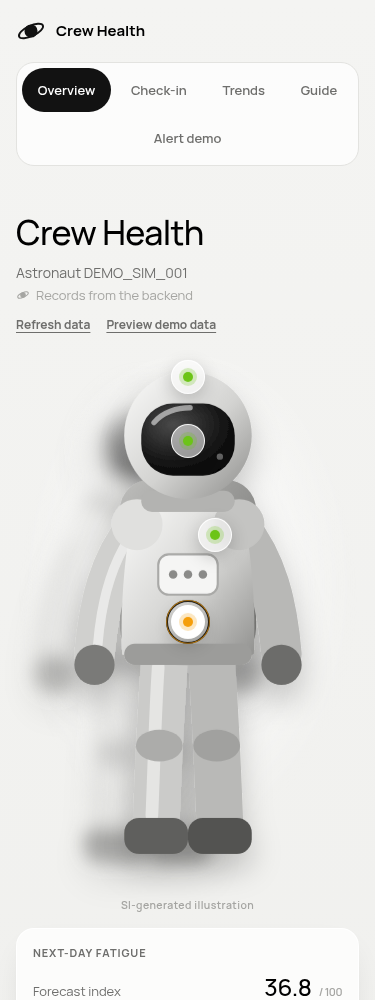
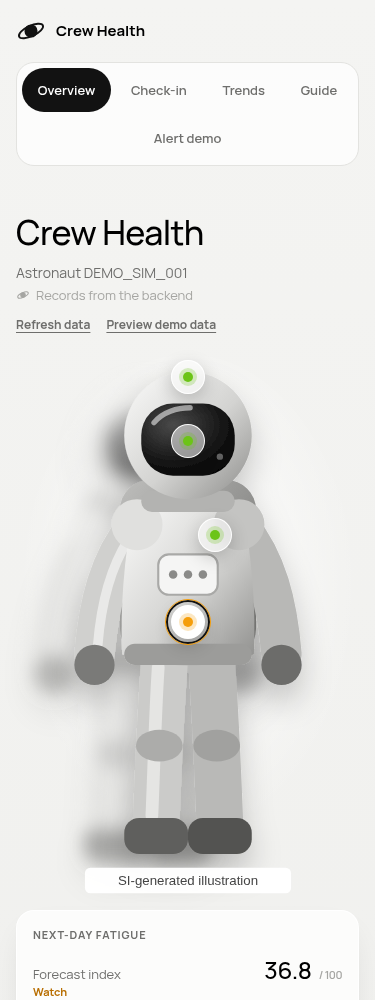
Embed visible SI labels in artwork and preserve them in image exports

diff --git a/frontend/src/app/components/astronaut-figure.ts b/frontend/src/app/components/astronaut-figure.ts
@@ -5,7 +5,7 @@ import { Component } from '@angular/core';
   selector: 'app-astronaut-figure',
   host: { style: 'display: contents' },
   template: `
-    <svg class="astronaut" viewBox="0 0 320 520" role="img" aria-label="Astronaut body map">
+    <svg class="astronaut" viewBox="0 0 320 520" role="img" aria-label="Astronaut body map, SI-generated illustration">
       <defs>
         <linearGradient id="suit" x1="0" x2="1" y1="0" y2="1">
           <stop offset="0" stop-color="#fbfbfa" />
@@ -71,6 +71,10 @@ import { Component } from '@angular/core';
         <rect x="116" y="56" width="88" height="68" rx="30" fill="url(#visor)" />
         <path d="M128 74 C136 64 150 60 162 60" stroke="#fff" stroke-opacity="0.55" stroke-width="5" stroke-linecap="round" fill="none" />
         <circle cx="190" cy="106" r="3" fill="#fff" opacity="0.35" />
+      </g>
+      <g data-si-watermark="true" pointer-events="none">
+        <rect x="63" y="493" width="194" height="24" rx="5" fill="#ffffff" fill-opacity="0.96" />
+        <text x="160" y="509" text-anchor="middle" fill="#444444" font-family="Arial, sans-serif" font-size="12.5">SI-generated illustration</text>
       </g>
     </svg>
   `,

diff --git a/frontend/src/app/components/tile-visuals.ts b/frontend/src/app/components/tile-visuals.ts
@@ -76,6 +76,10 @@ export class Wave {
         [style.animation-duration]="60 / bpm() + 's'"
         d="M60 74 C46 64 41 57 41 50 C41 44 45 40 50.5 40 C55 40 58.5 43 60 46.5 C61.5 43 65 40 69.5 40 C75 40 79 44 79 50 C79 57 74 64 60 74 Z"
       />
+      <g data-si-watermark="true" pointer-events="none">
+        <rect x="14" y="104" width="92" height="16" rx="4" fill="#ffffff" fill-opacity="0.96" />
+        <text x="60" y="115" text-anchor="middle" fill="#444444" font-family="Arial, sans-serif" font-size="10">SI-generated</text>
+      </g>
     </svg>
   `,
 })

diff --git a/frontend/src/styles.css b/frontend/src/styles.css
@@ -1778,16 +1778,6 @@ button:focus-visible {
 
 /* ================= body map extras ================= */
 
-.si-mark {
-  width: clamp(240px, 100% - 190px, 360px);
-  margin: 2px 0 0 auto;
-  text-align: center;
-  font-size: 10.5px;
-  font-weight: 600;
-  letter-spacing: 0.04em;
-  color: var(--ink-3);
-}
-
 .zone-link {
   margin-top: 10px;
   padding: 0;
@@ -2314,8 +2304,7 @@ fieldset.field {
     grid-template-columns: 1fr;
   }
 
-  .figure-stage,
-  .si-mark {
+  .figure-stage {
     width: min(100%, 340px);
     margin-left: auto;
     margin-right: auto;

diff --git a/frontend/src/app/components/body-map.ts b/frontend/src/app/components/body-map.ts
@@ -91,8 +91,6 @@ const ZONES: Zone[] = [
       }
       }
     </div>
-    <p class="si-mark">SI-generated illustration</p>
-
     @if (!scenarioPreview()) {
     <aside class="zone-card" [attr.data-level]="zoneLevel(active()) ?? 'none'" [style.--zone-y]="active().y + '%'">
       <p class="zone-label">{{ active().label }}</p>

diff --git a/docs/SUBMISSION_DISCLOSURE.md b/docs/SUBMISSION_DISCLOSURE.md
@@ -9,13 +9,13 @@ This review uses the uploaded **“NASA Space Apps Challenge.pdf”**, titled **
 | Requirement and source | Project evidence and remaining action |
 |---|---|
 | **Code and data SI disclosure in descriptive text and metadata** (p9: “Code and data: Must acknowledge SI generation in descriptive text and metadata.”) | Main/frontend/data READMEs provide the descriptive account; [PROVENANCE.json](../PROVENANCE.json) provides machine-readable scopes, tools and data origin. Keep both with shared source/data. |
-| **Visible watermarks on SI-generated images and videos** (p9) | The app displays an SI label below the astronaut and a general footer notice. That label is outside the underlying SVG; the watch illustration has no dedicated local watermark. Review final screenshots, crops, slides and video, and ensure SI artwork is visibly marked in the actual exported media. A README or hidden metadata alone cannot do this. |
-| **Audio SI disclosure in descriptive text and metadata**, if used (p9) | No generated audio was identified in the reviewed app assets. If a narrated demo uses generated audio, disclose it in both places. Final demo media has not been provided for this review. |
-| **Generated content must not use, contain or modify NASA branding/design elements**, including logos, flags and mission identifiers (p9) | No such branding was found in the inspected generic astronaut/watch illustrations, favicon or dashboard screenshots. Review the final presentation separately; this inspection does not cover future media. |
+| **Visible watermarks on SI-generated images and videos** (p9) | The astronaut and watch now contain visible SVG text labels directly in their artwork: “SI-generated illustration” and “SI-generated.” These were added through code to the existing art. The [presentation](../Project_SuperMoon_Final_Presentation.pdf) also labels both illustrations in its dashboard screenshot caption. Desktop/mobile and standalone-export checks are tracked in [the artwork report](../integration-reports/ARTWORK_WATERMARK_CHECKS.json); inspect the recorded result before distributing a new export. Keep labels readable in crops and recordings. A README or hidden metadata alone cannot do this. |
+| **Audio SI disclosure in descriptive text and metadata**, if used (p9) | No generated audio was identified in the reviewed app assets, and the seven-slide PDF has no audio. If a future narrated demo uses generated audio, disclose it in both places. |
+| **Generated content must not use, contain or modify NASA branding/design elements**, including logos, flags and mission identifiers (p9) | No such branding was found in the inspected generic astronaut/watch illustrations, favicon or dashboard screenshots. The revised presentation uses the actual dashboard rather than the original cover illustration of unverified origin. This inspection does not cover future media. |
 | **Describe specific NASA data/resources used; at least one is required for Global Award eligibility** (p9) | The [main README](../README.md#nasa-resources-used) maps NASA resources to their actual uses. The dataset is a team simulator output, not a NASA measurement dataset. |
 | **List all used data, resources and tools, including code, text and images; obtain required permissions** (p10) | Credits below retain the frontend's origin, SI assistance, research references, libraries and font license. The team should confirm permissions for all final media and contributions. Public availability does not itself grant reuse rights. |
-| **A separate public project demo: video ≤30 seconds or deck ≤7 slides, including title/intro slides** (pp7,11–12) | A qualifying final demo link has not been identified in this repository review. The installer and screenshots demonstrate software but do not by themselves establish this required submission format. |
-| **Public final-project and demo links, requiring no login, permission or registration** (pp5,7–8) | The [repository](https://github.com/magdiemad5s/Space-apps) and [Windows release](https://github.com/magdiemad5s/Space-apps/releases/tag/v0.1.1-prototype) are the intended final-project links. Test the separate final demo link in a private browser before submitting; `localhost` and private collaborator repositories are not judge-accessible final-project links. |
+| **A separate public project demo: video ≤30 seconds or deck ≤7 slides, including title/intro slides** (pp7,11–12) | The [Project SuperMoon presentation](https://github.com/magdiemad5s/Space-apps/blob/main/Project_SuperMoon_Final_Presentation.pdf) is an English seven-slide PDF including its cover and team credits. Preserve the seven-slide limit when editing. |
+| **Public final-project and demo links, requiring no login, permission or registration** (pp5,7–8) | The [repository](https://github.com/magdiemad5s/Space-apps), [Windows release](https://github.com/magdiemad5s/Space-apps/releases/tag/v0.1.1-prototype) and [presentation](https://github.com/magdiemad5s/Space-apps/blob/main/Project_SuperMoon_Final_Presentation.pdf) opened anonymously during the pre-submission review on November 15, 2026. Recheck the final links after any upload; `localhost` and private collaborator repositories are not judge-accessible final-project links. |
 | **English project submission and linked materials** (p11; project form repeated on p13) | Main documentation and UI are English. Archived Arabic generation/audit reports remain in the repository. An English-language review of all materials the team intends to submit/link is still needed; provide English versions of any Arabic report included for judging. Non-English speech in a demo video requires English subtitles; decks must be English. |
 | **Original work, team participation, final submission and content restrictions** (p13) | The team must verify the originality/permission attestation and confirmed same-Local-Event participation, complete required fields and click **Submit for Judging**. The guide excludes likenesses of people under 18 from project demonstrations/final projects. No registration or final-page submission was performed in this documentation task. |
 
@@ -25,7 +25,7 @@ The p9 SI form answer is described as data collection that judges will not see, 
 
 ## Suggested SI disclosure for the project page
 
-> Our team designed and developed ASTRA-SHIELD, defining the health-monitoring use case, measurement workflow, interface direction and integration requirements. We used SI tools to accelerate implementation, analysis, debugging, documentation and testing. OpenAI ChatGPT/Codex assisted with simulation code and journal templates, the ML workflow and experiments, backend/frontend integration, automated tests and Windows packaging. Karam Alhams's original frontend acknowledges Claude (Anthropic) assistance with code, Guide text and SVG illustrations. Numeric data and labels were produced by a seeded Python simulation; they are not measured NASA astronaut data. We tested the integrated software through automated UI, API, model and Windows executable checks. The team's design decisions and ongoing review guide development; the prototype's outputs have not been clinically validated. Our repository includes tool/data provenance and artwork disclosure requirements for the final demo media.
+> Our team designed and developed ASTRA-SHIELD, defining the health-monitoring use case, measurement workflow, interface direction and integration requirements. We used SI tools to accelerate implementation, analysis, debugging, documentation and testing. OpenAI ChatGPT/Codex assisted with simulation code and journal templates, the ML workflow and experiments, backend/frontend integration, automated tests, Windows packaging and presentation editing. Karam Alhams's original frontend acknowledges Claude (Anthropic) assistance with code, Guide text and SVG illustrations. Numeric data and labels were produced by a seeded Python simulation; they are not measured NASA astronaut data. We tested the integrated software through automated UI, API, model and Windows executable checks. The team's design decisions and ongoing review guide development; the prototype's outputs have not been clinically validated. Our repository includes tool/data provenance, and the astronaut and watch contain visible SI-generation labels within their SVG artwork.
 
 Review this wording against the final presentation and any additional tools the team uses before copying it into the submission. Add any SI-generated narration or newly generated media if applicable; do not claim a watermark exists until it is present in the actual export.
 
@@ -54,17 +54,18 @@ These tests establish the recorded software behavior and numerical portability. 
 | UI, backend and build ecosystem | Angular, Ionic, RxJS, TypeScript, Ionicons, Node.js, Express, cors, npm, tsx and related packages. JavaScript dependency versions and recorded license identifiers are in the [frontend lockfile](../frontend/package-lock.json) and [backend lockfile](../ai/integration/backend_review/proposed_backend/package-lock.json); runtime/build requirements are in the [Windows documentation](../desktop/README.md). |
 | Data, trained models and API | Python, NumPy, pandas, SciPy, scikit-learn, joblib, SHAP, FastAPI, Pydantic, Uvicorn and httpx. XGBoost was also used in research comparisons; its unused comparison snapshots are excluded from the Windows inference artifact. See [runtime requirements](../ai/requirements.txt), model/report environment records and experimental READMEs. |
 | Testing, reports and distribution | Playwright/Chromium, Matplotlib, ReportLab, Pillow, Git/GitHub Actions, PyInstaller and Inno Setup, as used by the committed test/report/build scripts. [Windows build tooling](../desktop/README.md) records packaging dependencies and distributes third-party license notices. |
-| Typography | Manrope by the Manrope Project Authors, locally distributed through `@fontsource-variable/manrope` under the [SIL Open Font License](../frontend/public/licenses/manrope-OFL.txt). |
-| Report typography | [DejaVu fonts](https://dejavu-fonts.github.io/), used by the EDA/report scripts, and [Noto Naskh Arabic](https://github.com/notofonts/arabic), recorded in the archived Arabic guide's rendering environment. Retain their applicable font licenses when redistributing font files. |
+| Presentation production and review | [ReportLab](https://www.reportlab.com/) generated the revised PDF; [python-pptx](https://python-pptx.readthedocs.io/) generated its editable PowerPoint companion; [PyMuPDF](https://pymupdf.readthedocs.io/) extracted, rendered and checked the PDFs. ChatGPT/Codex assisted factual editing and layout code under the team's direction. |
+| Typography | [Manrope source and license](https://github.com/google/fonts/tree/main/ofl/manrope), by the Manrope Project Authors, locally distributed through `@fontsource-variable/manrope` under the [SIL Open Font License](../frontend/public/licenses/manrope-OFL.txt). |
+| Report and presentation typography | [DejaVu fonts](https://dejavu-fonts.github.io/), used by the presentation and EDA/report scripts, and [Noto Naskh Arabic](https://github.com/notofonts/arabic), recorded in the archived Arabic guide's rendering environment. Retain their applicable font licenses when redistributing font files. |
 
 No project-wide license has been added by this review. The guide requires proper permissions and attribution; it does not prescribe a particular open-source license. Existing third-party terms still apply. If the team chooses a project license, it must have the rights to license the included contributions under those terms.
 
 ## Final team checklist
 
 - [ ] Complete the required project-page fields in English, including specific NASA resource uses and the SI-use answer.
-- [ ] Link a public English deck of at most seven slides, or a video of at most 30 seconds with English subtitles if speech is non-English.
-- [ ] Verify both demo and final-project links without logging in. Keep the repository/release link accessible; do not use a local server address as the public demo link.
-- [ ] Inspect final media for visible SI watermarks, NASA-branding restrictions, permissions, language requirements and the under-18-likeness restriction. The watch/standalone SVG and cropped screenshots need particular attention.
+- [x] Prepare a public English seven-slide presentation, including title and credits.
+- [x] Check the public presentation, repository and release links without logging in during the November 15 pre-submission review. Keep them accessible and recheck after uploads.
+- [ ] Inspect the exact final media for visible SI watermarks, NASA-branding restrictions, permissions, language requirements and the under-18-likeness restriction. Embedded astronaut/watch labels must remain readable in crops and recordings; the artwork report records the scope checked for this revision.
 - [ ] Include English versions of any Arabic reports chosen for judging; the repository still contains archived Arabic materials.
 - [ ] Confirm team registration, originality and contribution permissions, then **Submit for Judging** before the applicable deadline and verify the confirmation banner.
 

diff --git a/frontend/README.md b/frontend/README.md
@@ -107,9 +107,11 @@ Completed verification includes **81 UI checks, 48 end-to-end integration checks
 
 ### Illustration labels and submission exports
 
-The Body map currently renders **“SI-generated illustration”** below the astronaut figure in [`body-map.ts`](src/app/components/body-map.ts). The app footer in [`app.ts`](src/app/app.ts) also acknowledges SI-assisted code and illustrations, and [`src/index.html`](src/index.html) contains a `si-disclosure` metadata tag. These are the existing disclosures; the SVG artwork itself does not contain that Body map caption, and this README does not establish that every illustration, screenshot or exported asset has a visible watermark.
+The artwork now contains its own visible labels: **“SI-generated illustration”** is SVG text in [`astronaut-figure.ts`](src/app/components/astronaut-figure.ts), and **“SI-generated”** is SVG text in the watch in [`tile-visuals.ts`](src/app/components/tile-visuals.ts). The labels were added through code to the existing illustrations, without generating replacement artwork. They are part of the SVGs, rather than captions outside them. The app footer in [`app.ts`](src/app/app.ts) also acknowledges SI-assisted code and illustrations, and [`src/index.html`](src/index.html) contains a `si-disclosure` metadata tag.
 
-The submission guide requires a **visible watermark on SI-generated images and videos**. Any standalone illustration, screenshot, slide or video containing this SI-generated artwork must retain or add a clearly visible SI-generation watermark in the exported image or video; a README statement or metadata alone does not satisfy that visual requirement. Review the actual exports before submitting. The guide also prohibits SI-generated content from using, containing or modifying **NASA branding or design elements, including NASA logos, flags and mission identifiers**. This documentation update does not change the UI or its assets.
+The submission guide requires a **visible watermark on SI-generated images and videos**. Keep these labels visible when exporting an SVG or capturing the dashboard; a crop can still remove a label. Screenshots, slides and video must retain or add a clearly readable mark in the actual exported media. A README statement or hidden metadata alone does not satisfy that requirement. The [seven-slide presentation](../Project_SuperMoon_Final_Presentation.pdf) also identifies the astronaut and watch artwork in its screenshot caption. Checks of desktop/mobile rendering and standalone SVG exports are tracked in [the artwork verification report](../integration-reports/ARTWORK_WATERMARK_CHECKS.json); inspect that report's status before distributing a new build or export. This is not a claim that every historical screenshot or future crop is marked.
+
+The guide also prohibits SI-generated content from using, containing or modifying **NASA branding or design elements, including NASA logos, flags and mission identifiers**. The current illustrations are generic astronaut/watch graphics.
 
 ## NASA resources, other sources and credits
 
@@ -120,6 +122,6 @@ The submission guide requires a **visible watermark on SI-generated images and v
 - Published background: [ISS sleep/neurobehavioral research](https://pmc.ncbi.nlm.nih.gov/articles/PMC8919197/), [Barger et al.](https://pmc.ncbi.nlm.nih.gov/articles/PMC4188436/), [adult sleep-duration consensus](https://pmc.ncbi.nlm.nih.gov/articles/PMC4434546/), and [brief PVT research](https://pmc.ncbi.nlm.nih.gov/articles/PMC3197786/).
 - American Heart Association [tachycardia background](https://www.heart.org/en/health-topics/arrhythmia/about-arrhythmia/tachycardia--fast-heart-rate), cited by the Guide.
 
-These NASA resources are used as public reference material, not as training datasets. The sources support the project background, not our exact demo task, thresholds, or medical validity. Their use does not imply NASA endorsement. Library licenses remain with Angular, Ionic, RxJS, TypeScript, and their dependencies. Manrope is by the Manrope Project Authors, distributed under the [SIL Open Font License](public/licenses/manrope-OFL.txt).
+These NASA resources are used as public reference material, not as training datasets. The sources support the project background, not our exact demo task, thresholds, or medical validity. Their use does not imply NASA endorsement. Library licenses remain with Angular, Ionic, RxJS, TypeScript, and their dependencies. [Manrope source and license](https://github.com/google/fonts/tree/main/ofl/manrope) are available through Google Fonts; the font is by the Manrope Project Authors and is locally distributed under the [SIL Open Font License](public/licenses/manrope-OFL.txt).
 
 All model-training data is synthetic. The full dataset contains 7,200 forecast rows from 120 virtual participants; the original fatigue training partition contains **5,040**, not all 7,200. Neither these records nor the offline-demo examples are NASA astronaut measurements. This local prototype has no authenticated multi-user deployment. See [integration decisions and limits](../docs/INTEGRATION_HANDOFF.md).

diff --git a/README.md b/README.md
@@ -35,7 +35,7 @@ The frontend supplied by **Karam Alhams** (`Karam-Eyad` on GitHub) separately ac
 
 The integrated app has completed **81 UI checks, 48 end-to-end integration checks, and native Windows tests of both the portable and installed executable**, including real predictions, SHAP output, and shutdown. The [verification reports](integration-reports/README.md) record the tested scope; testing and teammate feedback continue as the prototype develops. These software checks are separate from future clinical validation.
 
-The [machine-readable provenance record](PROVENANCE.json) identifies AI-assisted code/data, artwork provenance, NASA reference roles, and remaining review items. Keep it with redistributed source or data and retain dependency licenses. AI-generated artwork needs a visible SI watermark in submission media; this README alone does not satisfy that requirement.
+The [machine-readable provenance record](PROVENANCE.json) identifies AI-assisted code/data, artwork provenance, NASA reference roles, and remaining review items. Keep it with redistributed source or data and retain dependency licenses. The astronaut and watch contain visible SI-generation labels directly in their SVG artwork. Keep those marks readable in screenshots and exports; this README alone does not satisfy the visual disclosure requirement. The [artwork report](integration-reports/ARTWORK_WATERMARK_CHECKS.json) tracks checks for this revision.
 
 **For submission:** use the [guide review and suggested disclosure text](docs/SUBMISSION_DISCLOSURE.md). The uploaded guide requires a separate public demo of **up to seven slides or a video of 30 seconds or less**, plus an English submission and English linked materials (non-English video speech requires English subtitles). The Windows installer is the final software artifact, not a substitute for that submission demo. The final media, permissions, team registration and actual “Submit for Judging” action still need team review.
 
